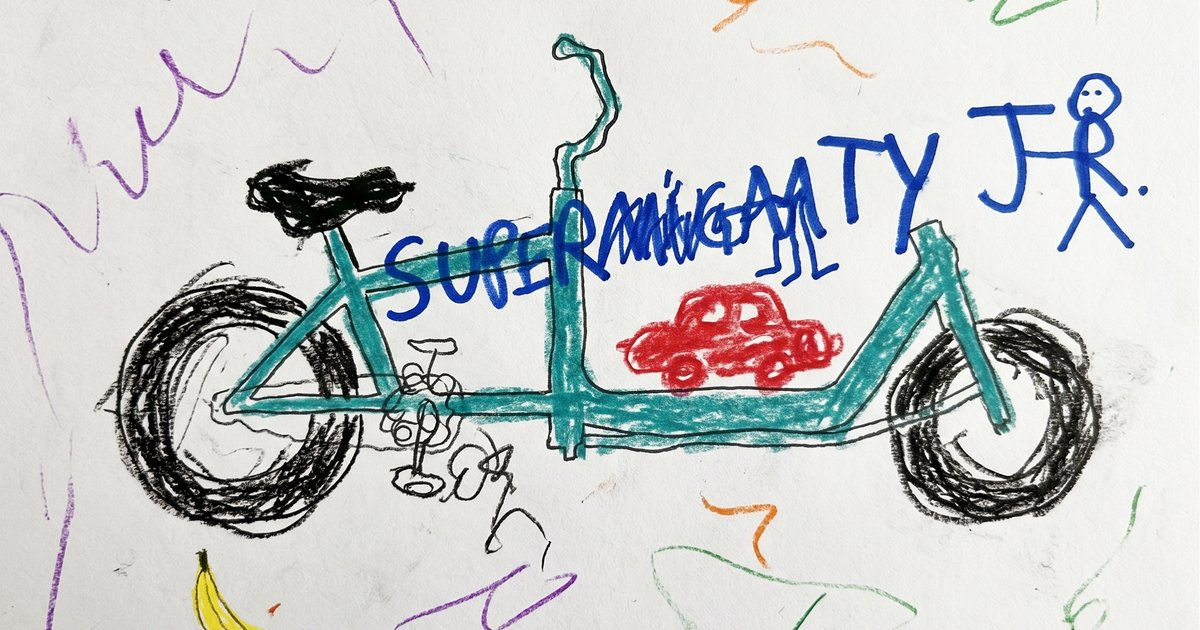
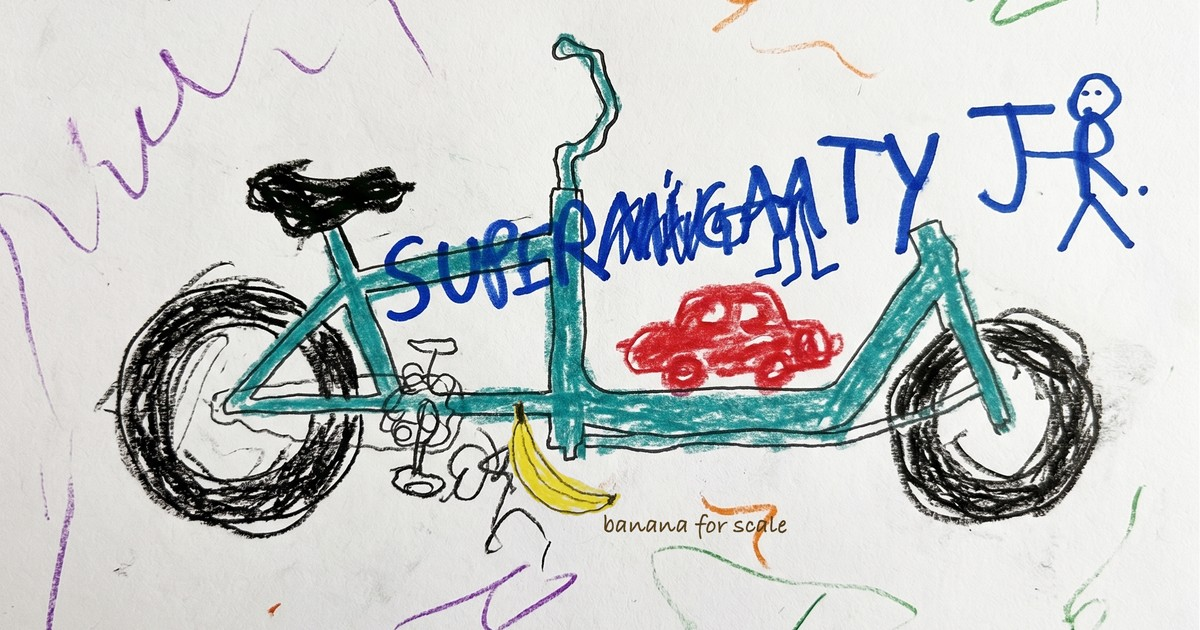
Update og-preview.jpg with repositioned-banana header image
New source: header_with_banana_addedGemini_Generated_Image_..._social_media.png
(2252×1888, banana moved in Vinilo so it stays in frame after center-crop).
Crop: scale 0.533×, top offset 188 px → 1200×630 JPEG, 217 KB.
README updated with asset table entry and regeneration snippet.

Changed region(s): [[0.4008, 0.6333, 0.6475, 0.8444], [0.1542, 0.8746, 0.2467, 1.0]]

diff --git a/_logo/README.md b/_logo/README.md
@@ -34,6 +34,27 @@ Copy the relevant ones to `../assets/images/` to use them on the site.
 
 ## Assets
 
+### Header / OG preview images
+
+| Preview | File | Notes |
+|---|---|---|
+| <img src="header_with_banana_addedGemini_Generated_Image_oe7jxnoe7jxnoe7j_social_media.png" width="80"> | `header_with_banana_addedGemini_Generated_Image_oe7jxnoe7jxnoe7j_social_media.png` | **Active OG source** — [Gemini](https://gemini.google.com) base, banana repositioned in [Vinilo](https://apps.apple.com/de/app/vinilo-crafting/id1554518531) to stay in frame after crop (2252×1888 PNG) |
+| <img src="header_with_banana_addedGemini_Generated_Image_oe7jxnoe7jxnoe7j_original.png" width="80"> | `header_with_banana_addedGemini_Generated_Image_oe7jxnoe7jxnoe7j_original.png` | Original before banana repositioning |
+| <img src="header_with_banana_Gemini_Generated_Image_eiydgmeiydgmeiyd.png" width="80"> | `header_with_banana_Gemini_Generated_Image_eiydgmeiydgmeiyd.png` | Earlier Gemini variant (superseded) |
+
+To regenerate `../assets/images/og-preview.jpg` from the active source (1200×630 center-crop, scale 0.533×, top offset 188 px):
+
+```python
+from PIL import Image
+src = Image.open("header_with_banana_addedGemini_Generated_Image_oe7jxnoe7jxnoe7j_social_media.png").convert("RGB")
+tw, th = 1200, 630
+scale = max(tw / src.width, th / src.height)
+nw, nh = round(src.width * scale), round(src.height * scale)
+resized = src.resize((nw, nh), Image.LANCZOS)
+left = (nw - tw) // 2; top = (nh - th) // 2
+resized.crop((left, top, left + tw, top + th)).save("../assets/images/og-preview.jpg", "JPEG", quality=90, optimize=True)
+```
+
 ### Original files
 
 | Preview | File | Origin |
